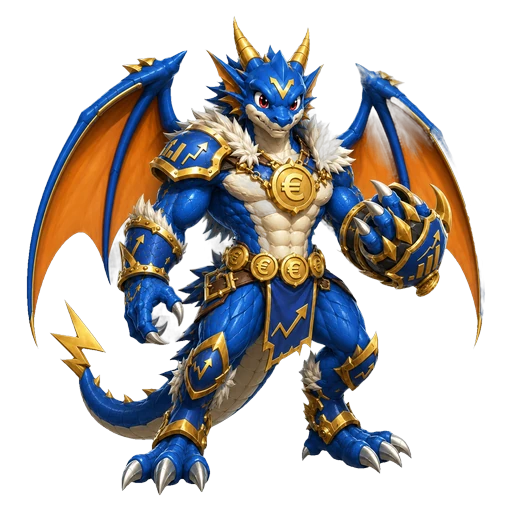
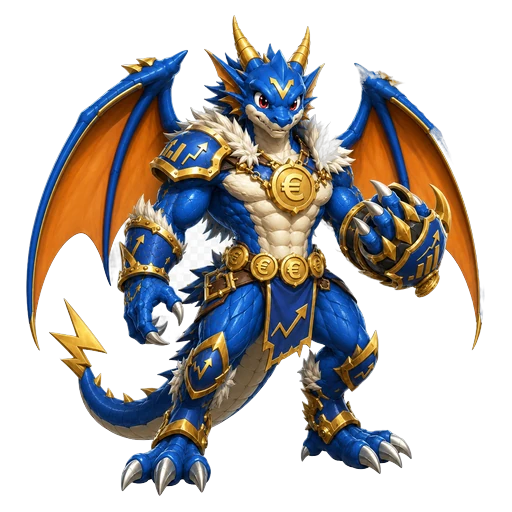
fix(brand): solid mascot bellies (no black) + cache-bust v4
The previous de-fringe (global alpha curve to kill white halo) was too
aggressive on the cream/white bellies: rembg gave them partial alpha, the curve
pushed it toward transparent, so the dark site showed through → "black bellies"
on Voltix jovem/adulto (and others).

New cut keeps both fixes without the side effect: build a SOLID core by
fill-holes over the confident region (a>170) — the belly is enclosed by the
dark dragon outline so it gets filled to fully opaque — and apply the de-fringe
ONLY outside that core (the real edges/fringe). Result: solid bellies + no white
fringe. Verified on navy (bellies solid) and black (no halo). Evolution sheets
rebuilt from the corrected individuals.

Bumped MASCOT_ASSET_VER 3→4 (and the LandingMascotShowcase ?v=) so the re-cut
WebPs bypass browser/CDN cache and actually show.

diff --git a/src/components/landing/LandingMascotShowcase.tsx b/src/components/landing/LandingMascotShowcase.tsx
@@ -53,7 +53,7 @@ function EvoRow({
             <div key={evo} className="text-center">
               <div className="relative w-full aspect-square bg-gradient-to-b from-white/5 to-transparent rounded-xl flex items-center justify-center border border-white/5 overflow-hidden mb-1.5">
                 <Image
-                  src={`/mascot/${gender}/${evo}.webp?v=3`}
+                  src={`/mascot/${gender}/${evo}.webp?v=4`}
                   alt={t('landing.mascot.evo_alt', { name, evo, label })}
                   width={96}
                   height={96}

diff --git a/src/components/voltix/MascotCreature.tsx b/src/components/voltix/MascotCreature.tsx
@@ -45,7 +45,7 @@ interface Props {
  *  `?v=` is a cache-buster — the mascot WebPs were re-cut (clean alpha, no
  *  white fringe) but keep the same filenames, so browsers/CDN would serve the
  *  stale cached version without it. Bump the number when the art changes. */
-const MASCOT_ASSET_VER = '3'
+const MASCOT_ASSET_VER = '4'
 function assetPath(gender: MascotGender, evo: number): string {
   return `/mascot/${gender}/${evo}.webp?v=${MASCOT_ASSET_VER}`
 }
